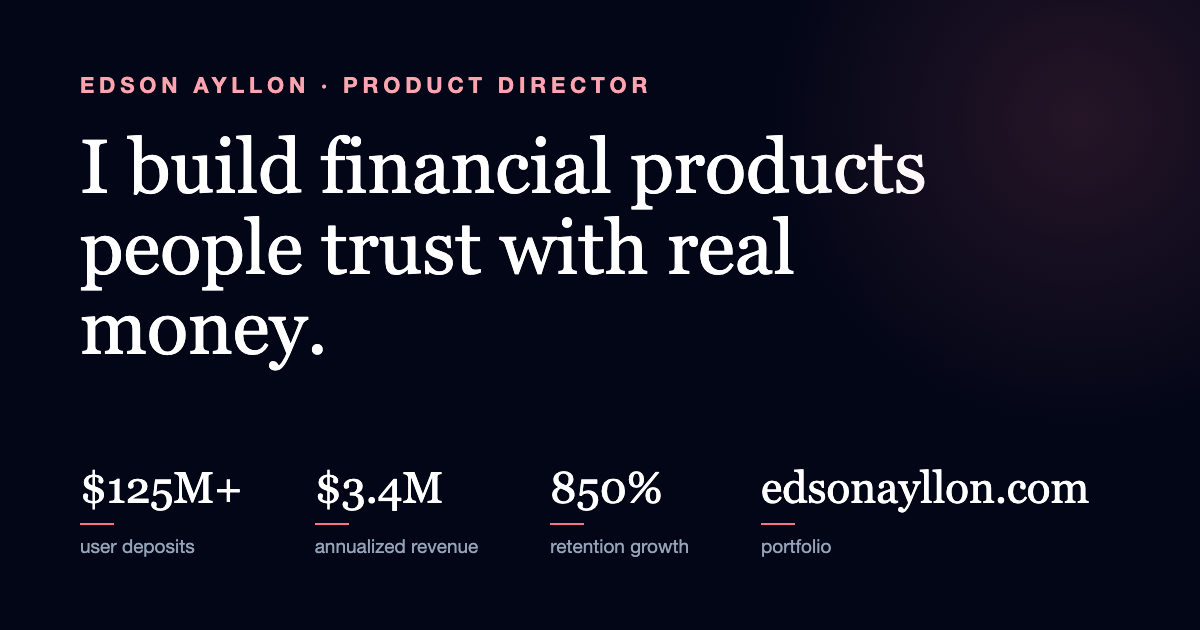
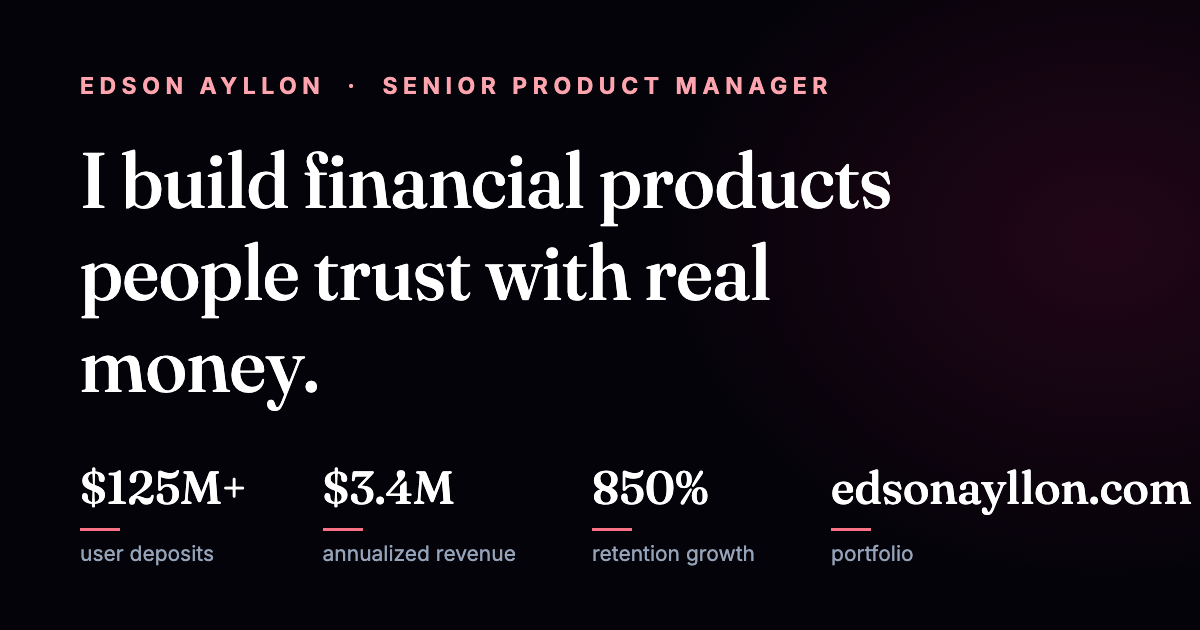
docs(content): retitle Chamber role as Senior Product Manager
Aligns site copy, JSON-LD, and case study bylines with the resume
title. Also regenerates the OG image and normalizes $300K casing.

diff --git a/src/content/site.ts b/src/content/site.ts
@@ -57,7 +57,7 @@ export interface CaseStudy {
 export const caseStudies: CaseStudy[] = [
   {
     slug: 'chamber',
-    eyebrow: 'Chamber · Product Director',
+    eyebrow: 'Chamber · Senior Product Manager',
     title: 'Repositioning a four-year-old investment platform for the AI era',
     outcome:
       'Led the rebrand from dHEDGE to Chamber and the pivot to AI-managed vaults — naming, positioning, launch, and pricing.',
@@ -145,7 +145,7 @@ export const personalProducts = [
 export const experience = [
   {
     company: 'Chamber (formerly dHEDGE)',
-    role: 'Product Director',
+    role: 'Senior Product Manager',
     period: 'Jan 2024 – Apr 2026',
     summary:
       'Led a cross-functional team of 10 engineers and designers. Product features attracted $125M+ in concurrent deposits; rebrand and AI-vaults pivot grew monthly visitors 73%; pricing strategy captured $3.4M in annualized revenue.',
@@ -155,7 +155,7 @@ export const experience = [
     role: 'Technical Product Manager',
     period: 'May 2021 – Dec 2023',
     summary:
-      'Owned the dHEDGE V2 launch on Polygon — $1M in capital in the first month, $6.5M over six months — and led the first release on Optimism ($300k in month one).',
+      'Owned the dHEDGE V2 launch on Polygon — $1M in capital in the first month, $6.5M over six months — and led the first release on Optimism ($300K in month one).',
   },
   {
     company: 'dHEDGE',
